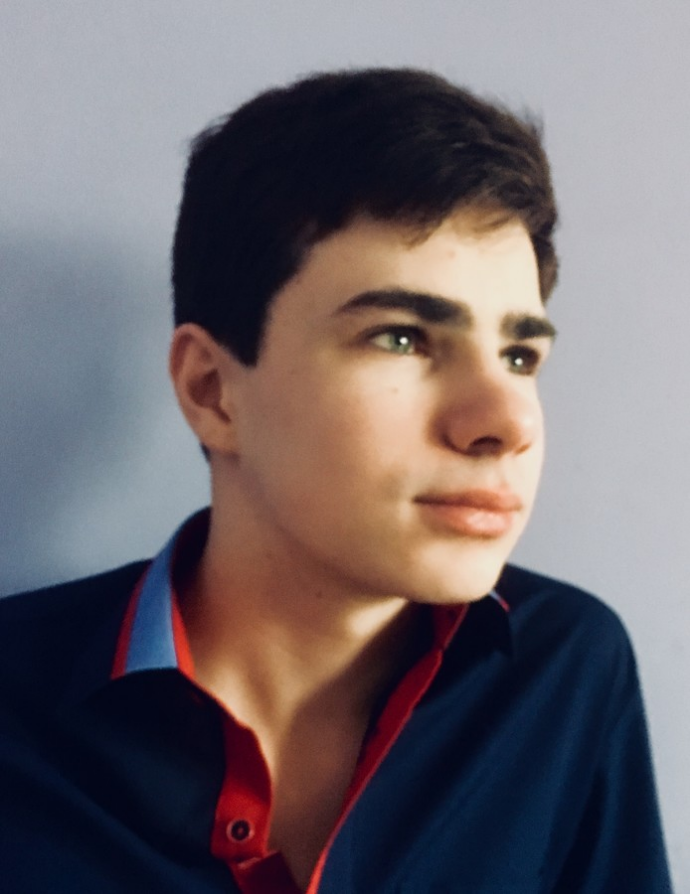
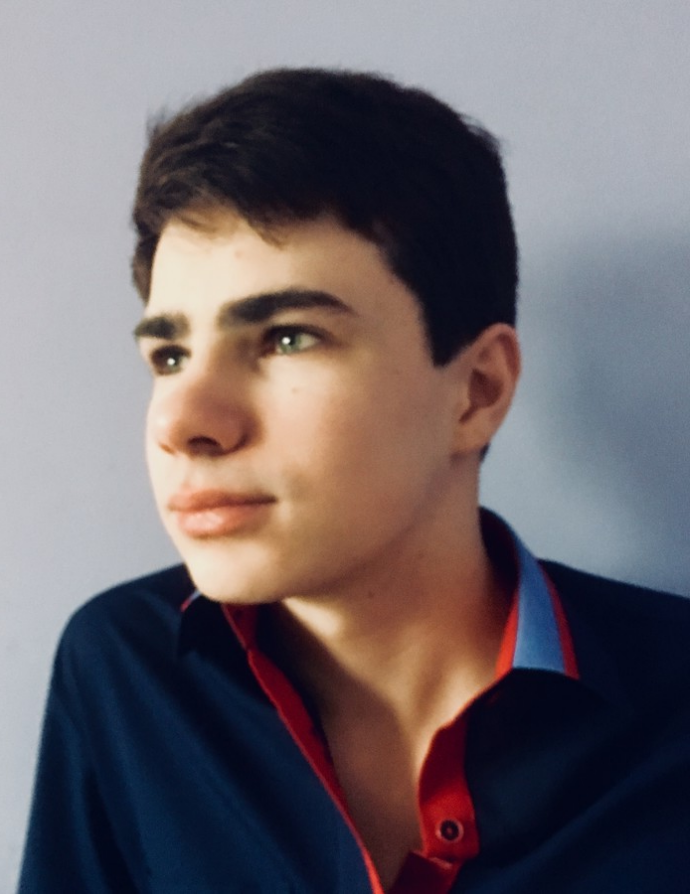
Add content for /about

diff --git a/src/about.html b/src/about.html
@@ -1,6 +1,20 @@
 <template>
     <section class="container">
-        <img class="image" src="./img/4.jpg">
+        <img class="image" style="width: 40vw" src="./img/4.jpg">
+        <p class="short-description">
+            Lorem ipsum dolor sit amet consectetur adipisicing elit.
+            Quo nobis unde illum rerum ducimus deleniti ratione?
+            Error impedit, alias vel iure maiores, nesciunt,
+            repellendus illo deleniti amet possimus pariatur iste!
+        </p>
+        <span class="text">
+            <p>
+                Lorem ipsum dolor sit amet consectetur adipisicing elit.
+                Quo nobis unde illum rerum ducimus deleniti ratione?
+                Error impedit, alias vel iure maiores, nesciunt,
+                repellendus illo deleniti amet possimus pariatur iste!
+            </p>
+        </span>
     </section>
 </template>
 

diff --git a/src/styles/about.scss b/src/styles/about.scss
@@ -1,6 +1,27 @@
-@import url('https://fonts.googleapis.com/css?family=Roboto+Mono:400,500&display=swap&subset=latin-ext');
 @import './mixins';
+@import 'normalize.css';
 
 .container {
-  min-height: 120vh;
+  display: grid;
+  grid-template-columns: 1fr 2fr;
+  background-color: #eee;
+
+  padding: 0 30px;
+  padding-top: 95px;
+  min-height: calc(100vh - 155px);
+}
+
+.image {
+  @include thumbnail;
+}
+
+.short-description {
+  margin-left: 40px;
+}
+
+.text {
+  margin-top: 40px;
+
+  grid-column-start: 1;
+  grid-column-end: span 3;
 }

diff --git a/src/styles/who.scss b/src/styles/who.scss
@@ -1,4 +1,5 @@
 @import './mixins';
+@import 'normalize.css';
 
 .container {
   min-height: 120vh;
@@ -10,9 +11,8 @@
   grid-template-columns: repeat(3, 1fr);
   place-items: center;
 
-  // max-width: 50vw;
-
   &__image {
+    cursor: pointer;
     margin: $img-width * 1/3;
     @include shadow;
     width: $img-width;
@@ -26,7 +26,7 @@
 
     .desc {
       position: absolute;
-      top: 100%;
+      top: 105%;
       white-space: nowrap;
     }
 

diff --git a/src/styles/main.scss b/src/styles/main.scss
@@ -13,7 +13,10 @@ body {
 }
 
 .navigation {
-  position: relative;
+  position: sticky;
+  top: 0;
+  z-index: 50;
+
   background: $topbar-bg;
   width: 100%;
   box-shadow: 0 2px 7px -3px #000;
@@ -25,7 +28,6 @@ body {
   &__container {
     width: 60%;
     display: grid;
-    // justify-content: space-around;
     grid-template-columns: repeat(3, 1fr);
   }
 

diff --git a/src/styles/index.scss b/src/styles/index.scss
@@ -1,5 +1,6 @@
 @import url('https://fonts.googleapis.com/css?family=Roboto+Mono:400,500&display=swap&subset=latin-ext');
 @import './mixins';
+@import 'normalize.css';
 
 .container {
   background-color: #eee;
@@ -25,9 +26,4 @@ p {
 .image {
   width: 90%;
   @include shadow;
-  transition: transform .2s ease;
-
-  &:hover {
-    transform: scale(1.01);
-  }
 }

diff --git a/src/styles/mixins.scss b/src/styles/mixins.scss
@@ -13,3 +13,13 @@
   height: $h;
   width: $w;
 }
+
+@mixin thumbnail {
+  padding: 4px;
+  line-height: 1.43;
+  background: #fff;
+  border: 1px solid #ddd;
+  max-width: 100%;
+  border-radius: 4px;
+  height: auto;
+}

diff --git a/src/js/who.js b/src/js/who.js
@@ -1,3 +1,1 @@
-export default () => {
-    console.log('who');
-};
+export default () => {};
